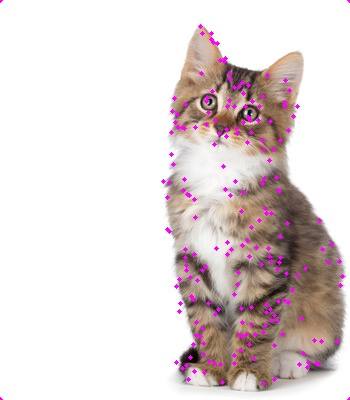
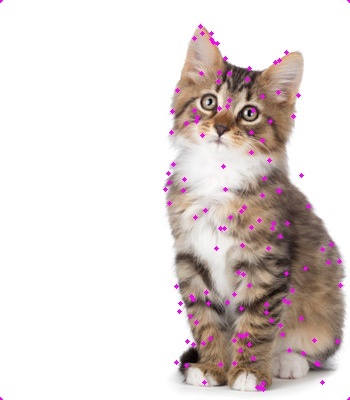
bubbble out radius to start making it a config

diff --git a/py-detect-features/lambda_function.py b/py-detect-features/lambda_function.py
@@ -96,7 +96,7 @@ def filter_points(points, radius):
     return points
 
 
-def identify_points_by_key_points(img):
+def identify_points_by_key_points(img, radius):
     """
     Method: Key points.
     """
@@ -117,18 +117,18 @@ def identify_points_by_key_points(img):
         key_points
     )
 
-    points = filter_points(points, 5)
+    points = filter_points(points, radius)
 
     return points
 
 
-def identify_points(img):
+def identify_points(img, radius):
     """
     Use a method to identify points
     """
 
     # points = identify_points_by_grid(img, 25)
-    points = identify_points_by_key_points(img)
+    points = identify_points_by_key_points(img, radius)
 
     # Add points for every corner
     height, width, channels = img.shape
@@ -147,13 +147,10 @@ def lambda_handler(event, context):
 
     # print "Event:\n", json.dumps(event)
     # print "Context:\n", context
-    # print dir(cv2)
-    # print cv2.__version__
 
     # Consume S3 create event
     key = event['Records'][0]['s3']['object']['key']
     session_id, filename = key.split('/')
-    # print key
 
     # Download image
     s3 = boto3.resource('s3', region_name='us-east-1')
@@ -167,7 +164,8 @@ def lambda_handler(event, context):
                        cv2.IMREAD_UNCHANGED)
 
     # Analyze image (https://docs.opencv.org/2.4/modules/imgproc/doc/feature_detection.html)
-    points = identify_points(img)
+    radius = 10
+    points = identify_points(img, radius)
 
     # Draw on img
     for point in points:
